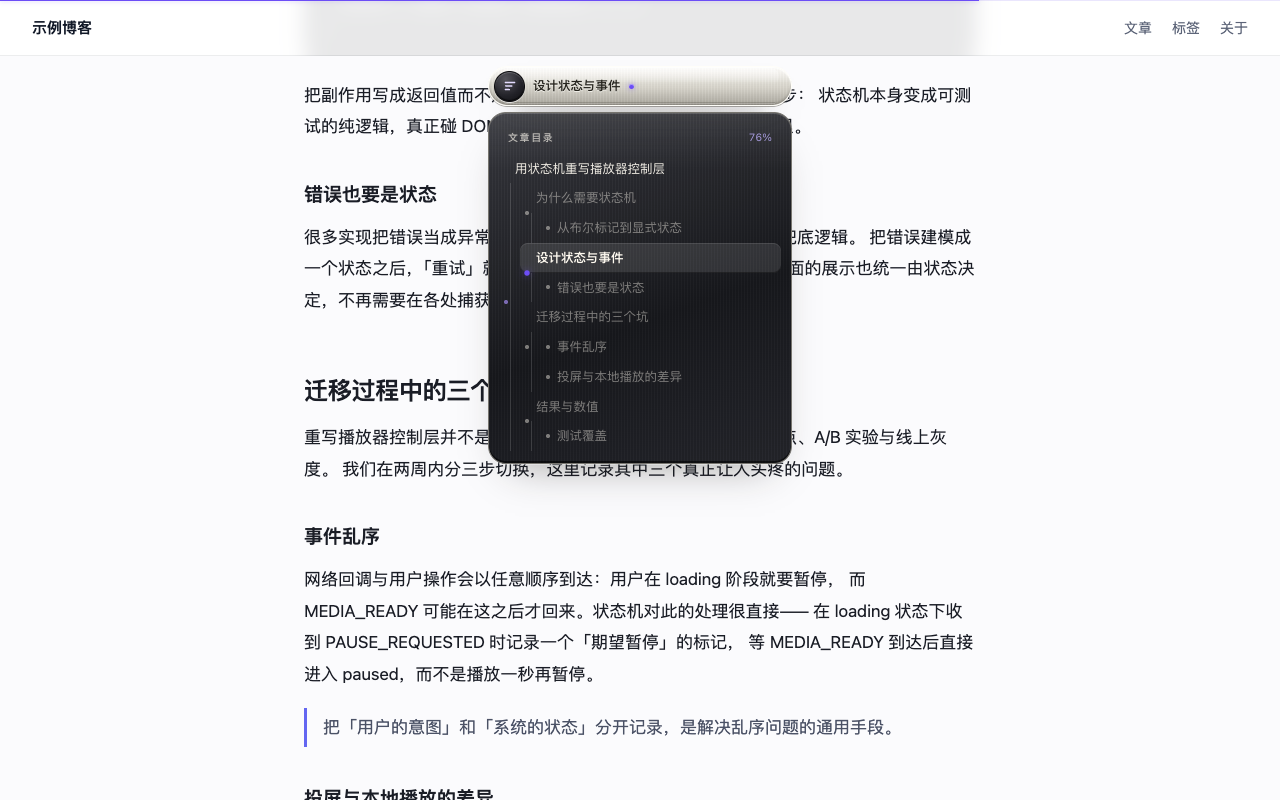
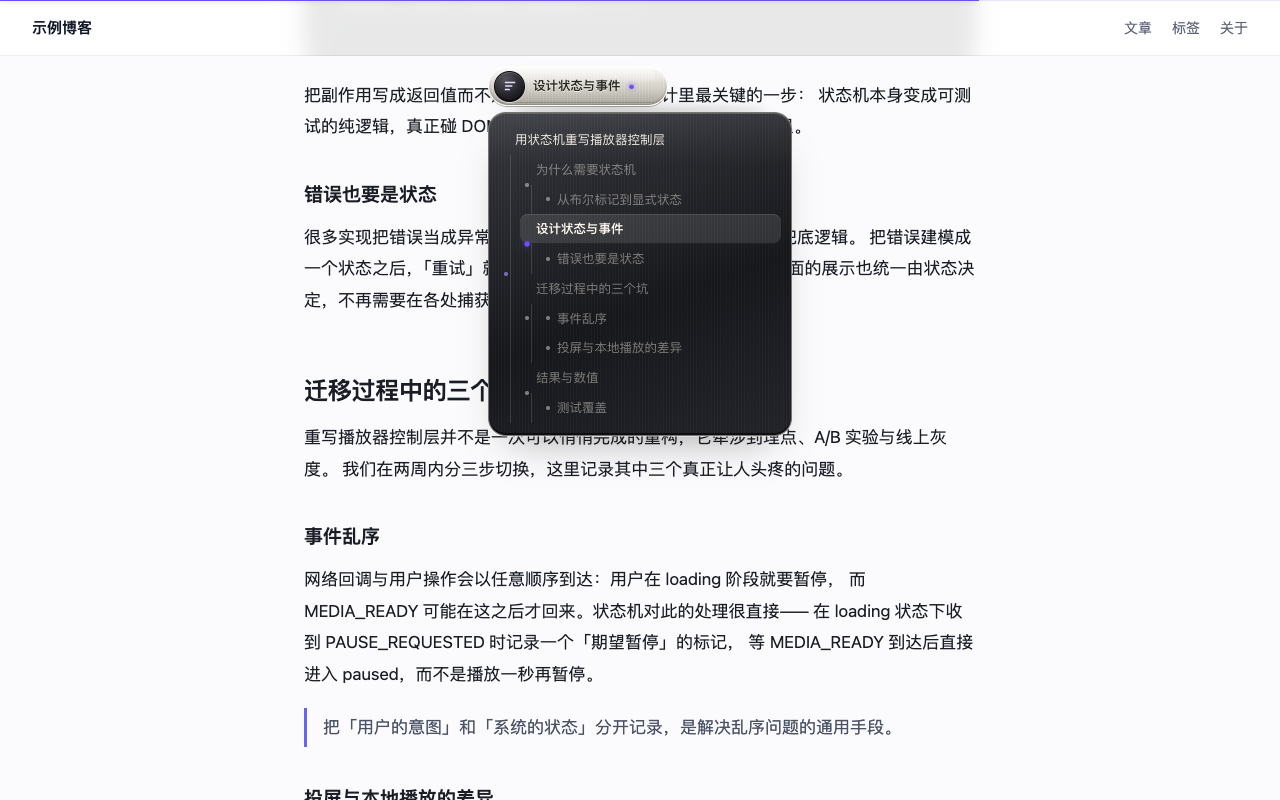
v0.13.2: anchor capsule left and simplify outline

Changed region(s): [[0.375, 0.0938, 0.625, 0.5938]]

diff --git a/src/content/ui.ts b/src/content/ui.ts
@@ -44,7 +44,6 @@ export class StickyUI {
   private below: HTMLDivElement | null = null;
   private drawer: HTMLDivElement | null = null;
   private drawerPath: HTMLDivElement | null = null;
-  private drawerProgress: HTMLElement | null = null;
   /** 大纲行：标题下标 → 行按钮 */
   private rows = new Map<number, HTMLButtonElement>();
 
@@ -62,7 +61,6 @@ export class StickyUI {
   private pinned = false;
   private pathKey = '';
   private currentIndex = -2;
-  private progressLabel = '';
   private floatingPosition: FloatingPosition | null = null;
   private drag:
     | {
@@ -123,10 +121,6 @@ export class StickyUI {
       </div>
       <div class="wss-below">
         <div class="wss-drawer" part="drawer">
-          <div class="wss-drawer-head">
-            <span class="wss-drawer-title">文章目录</span>
-            <span class="wss-drawer-progress"></span>
-          </div>
           <div class="wss-drawer-path"></div>
           <div class="wss-outline" role="list"></div>
         </div>
@@ -144,7 +138,6 @@ export class StickyUI {
     this.below = root.querySelector<HTMLDivElement>('.wss-below');
     this.drawer = root.querySelector<HTMLDivElement>('.wss-drawer');
     this.drawerPath = root.querySelector<HTMLDivElement>('.wss-drawer-path');
-    this.drawerProgress = root.querySelector<HTMLElement>('.wss-drawer-progress');
     this.rows = new Map();
 
     const outline = root.querySelector<HTMLDivElement>('.wss-outline');
@@ -205,13 +198,11 @@ export class StickyUI {
     this.below = null;
     this.drawer = null;
     this.drawerPath = null;
-    this.drawerProgress = null;
     this.rows = new Map();
     this.pathKey = '';
     this.currentIndex = -2;
     this.drawerOpen = false;
     this.pinned = false;
-    this.progressLabel = '';
     this.floatingPosition = null;
     this.drag = null;
     this.snapshot = { ...EMPTY_SNAPSHOT };
@@ -294,12 +285,6 @@ export class StickyUI {
     if (this.progressFill) {
       this.progressFill.style.width = `${(snapshot.progress * 100).toFixed(1)}%`;
     }
-    const progressLabel = `${Math.round(snapshot.progress * 100)}%`;
-    if (this.drawerProgress && progressLabel !== this.progressLabel) {
-      this.drawerProgress.textContent = progressLabel;
-      this.progressLabel = progressLabel;
-    }
-
     if (!visible) {
       this.unpin();
       this.currentIndex = -2;
@@ -337,8 +322,8 @@ export class StickyUI {
     title.textContent = text;
     title.title = `${node.text}（点击固定目录）`;
     title.dataset.wssIndex = String(index);
-    if (changed && this.floatingPosition) {
-      requestAnimationFrame(() => this.applyFloatingPosition());
+    if (changed) {
+      requestAnimationFrame(() => this.syncPillWidthLimit());
     }
   }
 
@@ -513,16 +498,18 @@ export class StickyUI {
       root.dataset.position = this.position;
       root.style.removeProperty('left');
       root.style.removeProperty('top');
+      this.syncPillWidthLimit();
       this.layoutDrawer();
       return;
     }
 
     const rect = pill.getBoundingClientRect();
-    const width = rect.width || 280;
-    const height = rect.height || 38;
-    const maxX = Math.max(0, window.innerWidth - width - 16);
+    const height = rect.height || 40;
+    const anchorRange = Math.max(1, window.innerWidth - 16);
     const maxY = Math.max(0, window.innerHeight - height - 16);
-    const left = 8 + (this.floatingPosition.x / 100) * maxX;
+    const left = 8 + (this.floatingPosition.x / 100) * anchorRange;
+    const availableWidth = Math.max(140, window.innerWidth - left - 16);
+    pill.style.maxWidth = `${Math.min(480, availableWidth)}px`;
     const top = 8 + (this.floatingPosition.y / 100) * maxY;
     this.applyPixelPosition(left, top);
   }
@@ -538,7 +525,7 @@ export class StickyUI {
 
   /**
    * 自由拖动后，目录不能仍然假设自己在顶部。
-   * 下方空间不足就向上展开；两者共享左边缘，宽度固定所以不需要横向换边。
+   * 下方空间不足就向上展开；胶囊左缘固定，目录使用固定的版心宽度。
    */
   private layoutDrawer(): void {
     const root = this.root;
@@ -571,15 +558,28 @@ export class StickyUI {
   private normalizedPosition(
     left: number,
     top: number,
-    width: number,
     height: number,
   ): FloatingPosition {
-    const maxX = Math.max(1, window.innerWidth - width - 16);
+    const anchorRange = Math.max(1, window.innerWidth - 16);
     const maxY = Math.max(1, window.innerHeight - height - 16);
     return {
-      x: Math.round(Math.max(0, Math.min(100, ((left - 8) / maxX) * 100)) * 10) / 10,
+      x: Math.round(Math.max(0, Math.min(100, ((left - 8) / anchorRange) * 100)) * 10) / 10,
       y: Math.round(Math.max(0, Math.min(100, ((top - 8) / maxY) * 100)) * 10) / 10,
     };
+  }
+
+  /**
+   * 标题决定右边界，左边界只由停靠位置决定。
+   * 这里只收缩最大宽度，避免长标题把胶囊推出视口。
+   */
+  private syncPillWidthLimit(): void {
+    const root = this.root;
+    const pill = this.pill;
+    if (!root || !pill) return;
+    pill.style.removeProperty('max-width');
+    const left = root.getBoundingClientRect().left;
+    const available = Math.max(140, window.innerWidth - left - 16);
+    pill.style.maxWidth = `${Math.min(480, available)}px`;
   }
 
   private handleDragStart = (event: PointerEvent): void => {
@@ -641,7 +641,7 @@ export class StickyUI {
 
       const rect = pill.getBoundingClientRect();
       this.suppressClickUntil = Date.now() + 350;
-      this.floatingPosition = this.normalizedPosition(rect.left, rect.top, rect.width, rect.height);
+      this.floatingPosition = this.normalizedPosition(rect.left, rect.top, rect.height);
       this.onFloatingPositionChange?.(this.floatingPosition);
     });
   };

diff --git a/src/content/style.css b/src/content/style.css
@@ -8,12 +8,12 @@
   position: fixed;
   z-index: var(--wss-z-index, 2147483600);
   top: var(--wss-top, 12px);
-  left: 50%;
+  left: max(8px, calc(50% - 152px));
   display: flex;
   flex-direction: column;
   align-items: center;
   gap: 8px;
-  transform: translateX(-50%);
+  transform: none;
   pointer-events: none;
   color: var(--wss-case-ink);
   font-family: -apple-system, BlinkMacSystemFont, 'Segoe UI', 'PingFang SC',
@@ -144,8 +144,10 @@
   align-items: center;
   gap: 8px;
   box-sizing: border-box;
-  width: min(304px, calc(100vw - 32px));
+  width: max-content;
+  min-width: 180px;
   height: 40px;
+  max-width: min(480px, calc(100vw - 32px));
   padding: 0 13px 0 5px;
   overflow: hidden;
   border: 1px solid var(--wss-case-edge);
@@ -272,7 +274,7 @@
   left: 0;
   display: flex;
   flex-direction: column;
-  width: 100%;
+  width: min(304px, calc(100vw - 32px));
   pointer-events: none;
 }
 
@@ -312,7 +314,7 @@
   box-sizing: border-box;
   width: 100%;
   max-height: var(--wss-drawer-max-height, min(62vh, 520px));
-  padding: 17px 10px 10px;
+  padding: 12px 10px 10px;
   overflow: auto;
   border: 1px solid var(--wss-panel-edge);
   border-radius: 18px;
@@ -356,37 +358,15 @@
 
 .wss-below[data-placement='above'] .wss-drawer {
   padding-top: 10px;
-  padding-bottom: 17px;
+  padding-bottom: 12px;
   transform-origin: 50% 100%;
-}
-
-.wss-drawer-head {
-  display: flex;
-  align-items: baseline;
-  justify-content: space-between;
-  gap: 10px;
-  padding: 1px 9px 10px;
-}
-
-.wss-drawer-title {
-  color: var(--wss-panel-muted);
-  font-size: 10px;
-  font-weight: 700;
-  letter-spacing: 0.16em;
-  text-transform: uppercase;
-}
-
-.wss-drawer-progress {
-  color: rgb(190 176 255 / 86%);
-  font-size: 10.5px;
-  font-variant-numeric: tabular-nums;
 }
 
 .wss-drawer-path {
   display: flex;
   align-items: center;
   gap: 2px;
-  margin: 0 4px 7px;
+  margin: 2px 4px 7px;
   padding-bottom: 7px;
   overflow: hidden;
   border-bottom: 1px solid var(--wss-panel-line);

diff --git a/src/popup/popup.html b/src/popup/popup.html
@@ -277,7 +277,7 @@
 
     <footer>
       <button class="link" id="options" type="button">更多设置</button>
-      <span id="version">v0.13.1</span>
+      <span id="version">v0.13.2</span>
     </footer>
 
     <script type="module" src="./popup.ts"></script>

diff --git a/README.md b/README.md
@@ -14,11 +14,11 @@ TopClip 现在只有一种稳定形态：**可自由拖动的拟物章节胶囊*
 
 - 胶囊显示当前章节标题，不复制网页标题、不伪造页面结构。
 - 胶囊可拖到视口内任何位置，位置按站点记忆，双击恢复默认位置。
-- 胶囊与目录使用同一条左边缘和固定宽度，标题变长也不会改变位置或宽度。
+- 胶囊左边缘固定，标题变长时只向右扩展；目录保持固定的章节版心宽度并与胶囊左对齐。
 - 靠近屏幕底部时，目录自动向上展开；两者之间保留明确但克制的间距。
 - 窗口缩放后会重新夹在可视区域内，不会留下一个点不到的控件。
 - 胶囊采用拉丝金属外壳与深色内嵌目录屏：实体高光、机械缝线、状态灯和一致的字体层级。
-- 目录不显示额外滚动条，仍可使用滚轮、触控板和键盘滚动。
+- 目录不显示“文章目录”标题、百分比或额外滚动条，只保留章节路径和大纲。
 - 页面顶部保留一条 1px 紫色整篇阅读进度线。胶囊在智能模式下收起时，进度线仍然可见。
 
 早期版本的全宽无痕吸顶、网页标题克隆、列宽对齐和轻提示模式已经移除。它们对页面结构要求过高，

diff --git a/store/listing.md b/store/listing.md
@@ -22,11 +22,11 @@ TopClip —— 读长文，不掉线。
 它不改造网页，也不伪造站点的标题：
 
 - 可自由拖动的拟物胶囊，位置按站点记忆，双击恢复默认
-- 拉丝金属外壳、深色内嵌目录屏与状态灯；目录不占额外滚动条空间
+- 拉丝金属外壳、深色内嵌目录屏与状态灯；目录只显示章节内容，不占额外滚动条空间
 - 悬停查看按标题树组织的完整目录，点击平滑跳转到对应章节
 - 页面顶部 1px 紫色细线显示整篇文章进度，不依赖网页配色
 - 智能 / 常驻两种显示策略：向下阅读时浮现，或始终显示
-- 胶囊与目录左边缘对齐、宽度固定，标题变化不会抖动；拖到下方时目录向上展开
+- 胶囊左边缘固定，标题过长时向右扩展；目录保持固定版心宽度并与胶囊左对齐
 - 原站已有目录时自动退让，避免两套目录互相干扰
 - 页面查找、站点对话框和其它高层浮层出现时主动让位
 - 智能识别长文与文档；列表页、搜索页、营销页和 AI 聊天页保持静默
